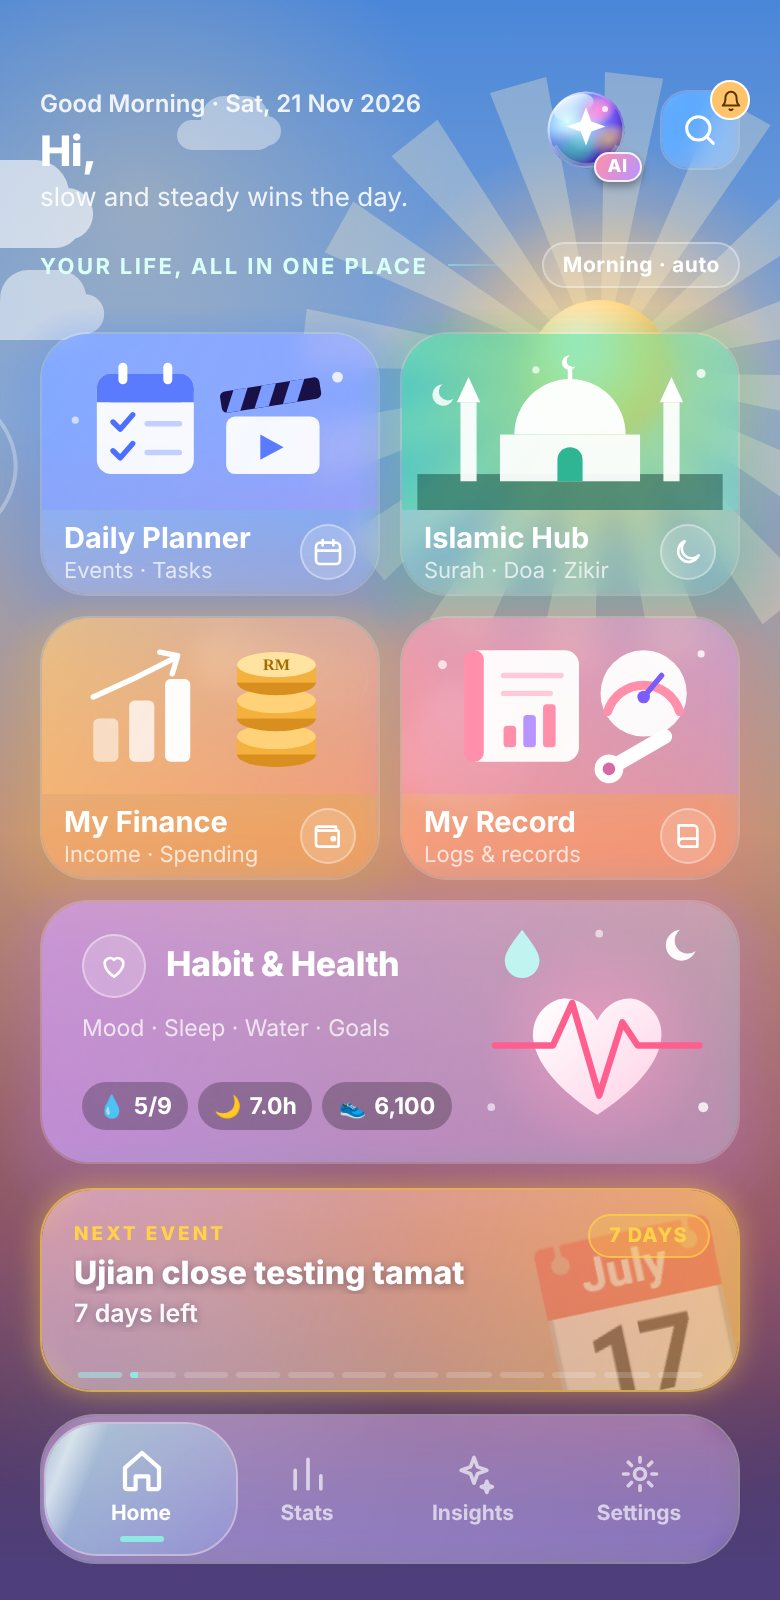
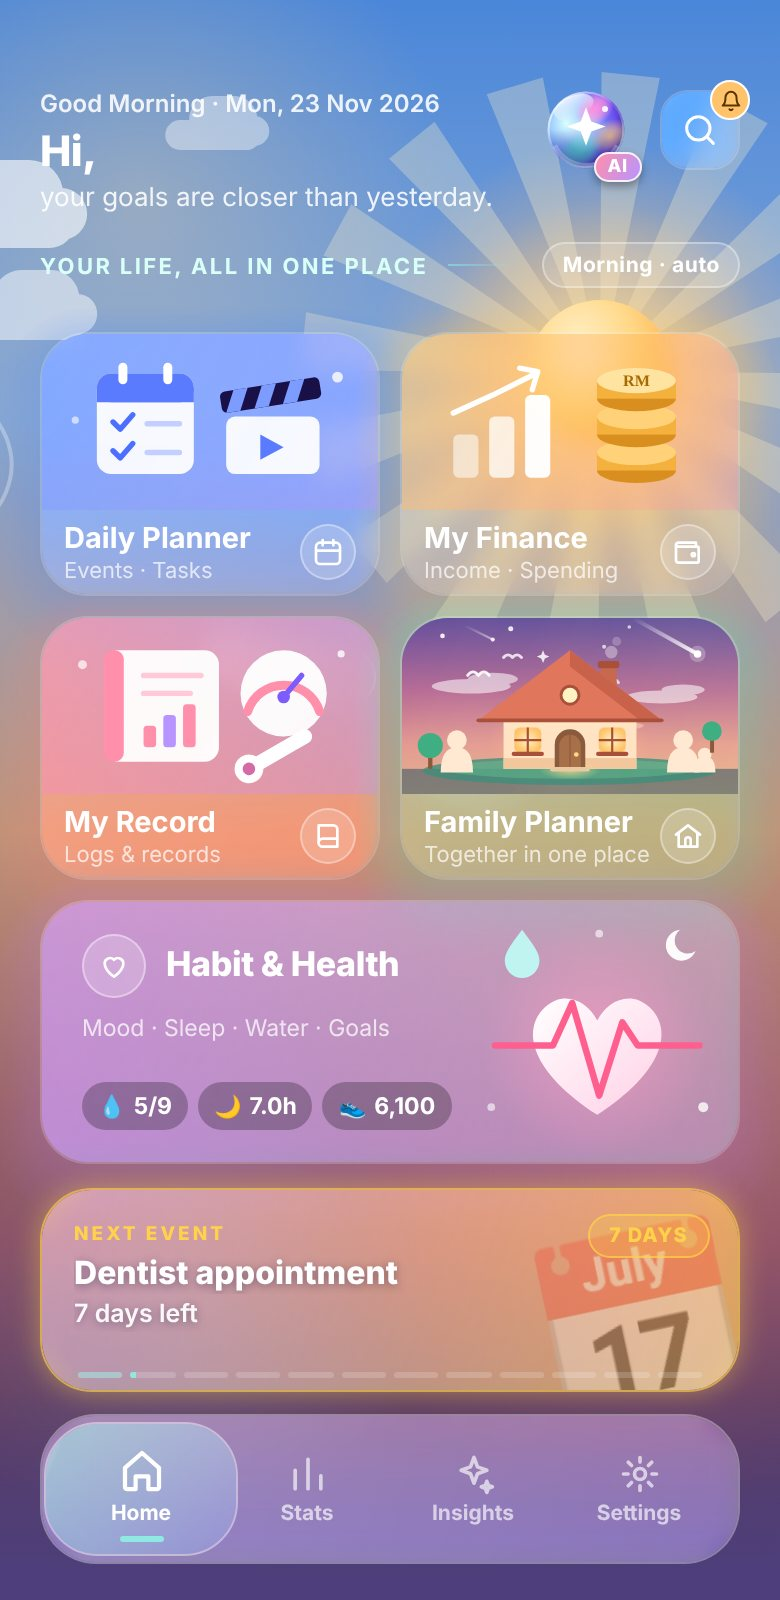
Website: remove Islamic Hub mentions and the closed-testing event from screenshots; refresh Home and Planner shots
Claude-Session: https://claude.ai/code/session_01MzTUZncxr27ER36gchKoUE

diff --git a/public/welcome.html b/public/welcome.html
@@ -1,6 +1,6 @@
 <!doctype html><html lang="en"><head><meta charset="utf-8"><meta name="viewport" content="width=device-width,initial-scale=1">
 <title>My Life 1.0 · Your life, all in one place</title><link rel="icon" href="icon.png">
-<meta name="description" content="My Life 1.0 is one private app for your day: planner, prayer times and Quran, money, vehicle records and habits. Your data stays yours.">
+<meta name="description" content="My Life 1.0 is one private app for your day: planner, money, vehicle records, habits and family. Your data stays yours.">
 <meta name="theme-color" content="#0a0f2c">
 <style>
 :root{--bg:#070b24;--tx:#f3f4ff;--dim:#a7aed6;--mute:#7f87b8;--line:rgba(255,255,255,.1);--glass:rgba(255,255,255,.06);--v:#8b7bff;--b:#5b8cff;--t:#34d3b0;--o:#ffb45e;--p:#ff7fb0}
@@ -103,7 +103,7 @@ footer b{display:block;color:#dfe2ff;margin-bottom:8px;font-size:14px}footer a{d
   <div>
     <span class="tag"><i></i>YOUR LIFE, ALL IN ONE PLACE</span>
     <h1>One app for<br><span class="grad">your whole day</span></h1>
-    <p class="lead">Plan your tasks, keep prayer times, track your money, keep your vehicle records, build healthy habits and plan together with your family. One calm, private app that lives on your phone.</p>
+    <p class="lead">Plan your tasks, track your money, keep your vehicle records, build healthy habits and plan together with your family. One calm, private app that lives on your phone.</p>
     <div class="cta">
       <a class="btn p" href="https://github.com/Adyl0022/my-life-1.0/releases/tag/apk-latest">Download for Android</a>
       <a class="btn s" href="#install">How to install</a>
@@ -115,7 +115,7 @@ footer b{display:block;color:#dfe2ff;margin-bottom:8px;font-size:14px}footer a{d
 
 <div class="band rv">
   <div><b>6</b><span>tools in one app</span></div>
-  <div><b>114</b><span>Quran surahs inside</span></div>
+  <div><b>Offline</b><span>works without internet</span></div>
   <div><b>0</b><span>ads, ever</span></div>
   <div><b>100%</b><span>private to your account</span></div>
 </div>
@@ -125,7 +125,6 @@ footer b{display:block;color:#dfe2ff;margin-bottom:8px;font-size:14px}footer a{d
   <div class="bento">
     <div class="f w rv" style="--c:linear-gradient(135deg,#b794ff,#ffb45e)"><i>📖</i><b>Your Memories</b><span>Every moment matters. Every journey tells a story. A personal memory book built only from what you saved: days together, milestones, a timeline, On This Day, badges you really earn and a year in review. Hide anything you like.</span><ul><li>Timeline</li><li>On This Day</li><li>Badges</li><li>Year in review</li></ul></div>
     <div class="f w rv" style="--c:linear-gradient(135deg,#ffb45e,#ff7a5c)"><i>🗓</i><b>Daily Planner</b><span>Tasks with priorities and due dates, events with reminders and a coloured days-left count, and colourful notes with checklists. Big Malaysian holidays such as Hari Raya and Deepavali appear by themselves and update over time.</span><ul><li>Tasks</li><li>Events</li><li>Notes</li><li>Overdue alerts</li><li>Malaysia holidays</li></ul></div>
-    <div class="f w rv" style="--c:linear-gradient(135deg,#34d399,#22b8d8)"><i>🕌</i><b>Islamic Hub</b><span>Prayer times that follow your location with official Malaysian (JAKIM) zones, accurate in Malaysia only, a live qibla compass, the full Quran with audio by four reciters (stream it or save it for offline listening), Hafazan Check that listens to your recitation on your phone and shows which words need work (Learn, Test or Find), a Today card with upcoming Islamic events and your week, daily zikir, Al-Ma'thurat, Tahlil, tasbih and a fasting log for Ramadan and sunnah fasts.</span><ul><li>Prayer times</li><li>Qibla</li><li>Quran</li><li>Quran Audio</li><li>Hafazan Check</li><li>Islamic events</li><li>Zikir</li><li>Fasting</li></ul></div>
     <div class="f rv" style="--c:linear-gradient(135deg,#7c9cff,#5b7cff)"><i>💰</i><b>My Finance</b><span>My Accounts for your cash, banks, wallets and cards, each with your own logo and the minimum balance your bank wants kept (so you see what is really available to spend), with your total money and what you owe, and a net worth that adds what your things are worth. Spending, income and monthly commitments can come off or go into an account. Savings goals that can take money off or put it back into an account when you choose, subscriptions you can pay from an account (it asks you first), and how much money is left this month and each day, with a warning when it is more than you can really spend. Currency follows the country you choose.</span></div>
     <div class="f rv" style="--c:linear-gradient(135deg,#3df0ff,#ff6ad5)"><i>🗂</i><b>Personal Collection</b><span>A new life lesson shows on the Dashboard card every day. Keep your gadgets with their warranty, lifestyle items, vehicles and property, write down money and things you lent or borrowed with a due-date reminder, and save life lessons you never want to forget. Details are saved to your account; photos stay on your phone. You can lock Documents with your fingerprint, face or phone lock (this choice stays on the phone), copy a number, share a picture with a bar that says why you share it (you can turn it off), and export several pages as one PDF. All of that is made on your phone and nothing is uploaded. Steps for renewing a paper are built into My Life 1.0 and are not sent anywhere. Gadgets show what they are worth now: the number you type, or a guess worked out on your phone from the price, age, kind, brand and condition. A reminder for something you lent is only a ready message: WhatsApp or the app you pick opens, you choose the person and you press send yourself. Photos (up to 5 for each item) stay on your phone. Part payments of money you lent are saved to your account with the rest of your details. The My things as a PDF button makes the file on your phone and shares it only when you choose.</span></div>
     <div class="f rv" style="--c:linear-gradient(135deg,#7c9cff,#b794ff)"><i>🪪</i><b>Documents</b><span>Keep your passport, MyKad, CIDB card, permits, bank and member cards, warranties and insurance in one place. Scan a document with the camera and it is found, straightened and cleaned up like a scanner app, then its details are filled in on your phone, and choose when to be reminded before it expires. Details are saved to your account; photos stay on your phone.</span></div>
@@ -142,7 +141,6 @@ footer b{display:block;color:#dfe2ff;margin-bottom:8px;font-size:14px}footer a{d
   <div class="shots rv">
     <figure><img src="welcome/home.jpg" alt="" loading="lazy"><figcaption>Home</figcaption></figure>
     <figure><img src="welcome/planner.jpg" alt="" loading="lazy"><figcaption>Planner</figcaption></figure>
-    <figure><img src="welcome/islamic.jpg" alt="" loading="lazy"><figcaption>Islamic Hub</figcaption></figure>
     <figure><img src="welcome/finance.jpg" alt="" loading="lazy"><figcaption>My Finance</figcaption></figure>
     <figure><img src="welcome/accounts.jpg" alt="" loading="lazy"><figcaption>My Accounts</figcaption></figure>
     <figure><img src="welcome/habit.jpg" alt="" loading="lazy"><figcaption>Habit and Health</figcaption></figure>
@@ -157,8 +155,8 @@ footer b{display:block;color:#dfe2ff;margin-bottom:8px;font-size:14px}footer a{d
 <section>
   <span class="eyebrow rv">HOW IT WORKS</span><h2 class="rv">Simple from the first minute</h2><p class="sub rv">Create your account once, then start.</p>
   <div class="how">
-    <div class="rv"><b>Open and set up</b><span>Allow the permissions you want. Prayer times work out your zone from your location, and you can set your name in Settings.</span></div>
-    <div class="rv"><b>Use what you need</b><span>Add a task, log your spending, read zikir, or record a fill-up. Everything you add is saved on your phone first, then backed up to your account.</span></div>
+    <div class="rv"><b>Open and set up</b><span>Allow only the permissions you want. You can set your name in Settings.</span></div>
+    <div class="rv"><b>Use what you need</b><span>Add a task, log your spending, or record a fill-up. Everything you add is saved on your phone first, then backed up to your account.</span></div>
     <div class="rv"><b>See the bigger picture</b><span>Stats and Insights turn your entries into trends, so you can see how your days are really going.</span></div>
   </div>
 </section>
@@ -224,7 +222,7 @@ footer b{display:block;color:#dfe2ff;margin-bottom:8px;font-size:14px}footer a{d
     <div class="st rv"><i>2</i><div><b>Download the APK file</b><p>Scroll to “Assets” on that page and tap the file that ends with <code>.apk</code>. Your phone downloads it. If your browser warns that this type of file can harm your device, tap “Download anyway”, as long as you came from this page.</p></div></div>
     <div class="st rv"><i>3</i><div><b>Open the file</b><p>When the download finishes, tap “Open” in the notification, or open the file from the Downloads folder in your Files app.</p></div></div>
     <div class="st rv"><i>4</i><div><b>Allow the install</b><p>If Android says it cannot install apps from this source, tap “Settings”, switch on “Allow from this source”, then go back and tap “Install”. If Google Play Protect shows a warning, tap “More details”, then “Install anyway”.</p></div></div>
-    <div class="st rv"><i>5</i><div><b>Open My Life 1.0</b><p>Tap “Open”. When asked, allow notifications and location so prayer times and reminders can work. You can change these later in Settings.</p></div></div>
+    <div class="st rv"><i>5</i><div><b>Open My Life 1.0</b><p>Tap “Open”. When asked, allow notifications so reminders can work. You can change these later in Settings.</p></div></div>
     <div class="st rv"><i>6</i><div><b>Create your account</b><p>On first open you will see the sign-in page. Tap register, enter your name, email and a password, then you land on Home. Your name is shown on your Home screen, and you can change it later in Settings.</p></div></div>
   </div>
   <div class="tips rv">
